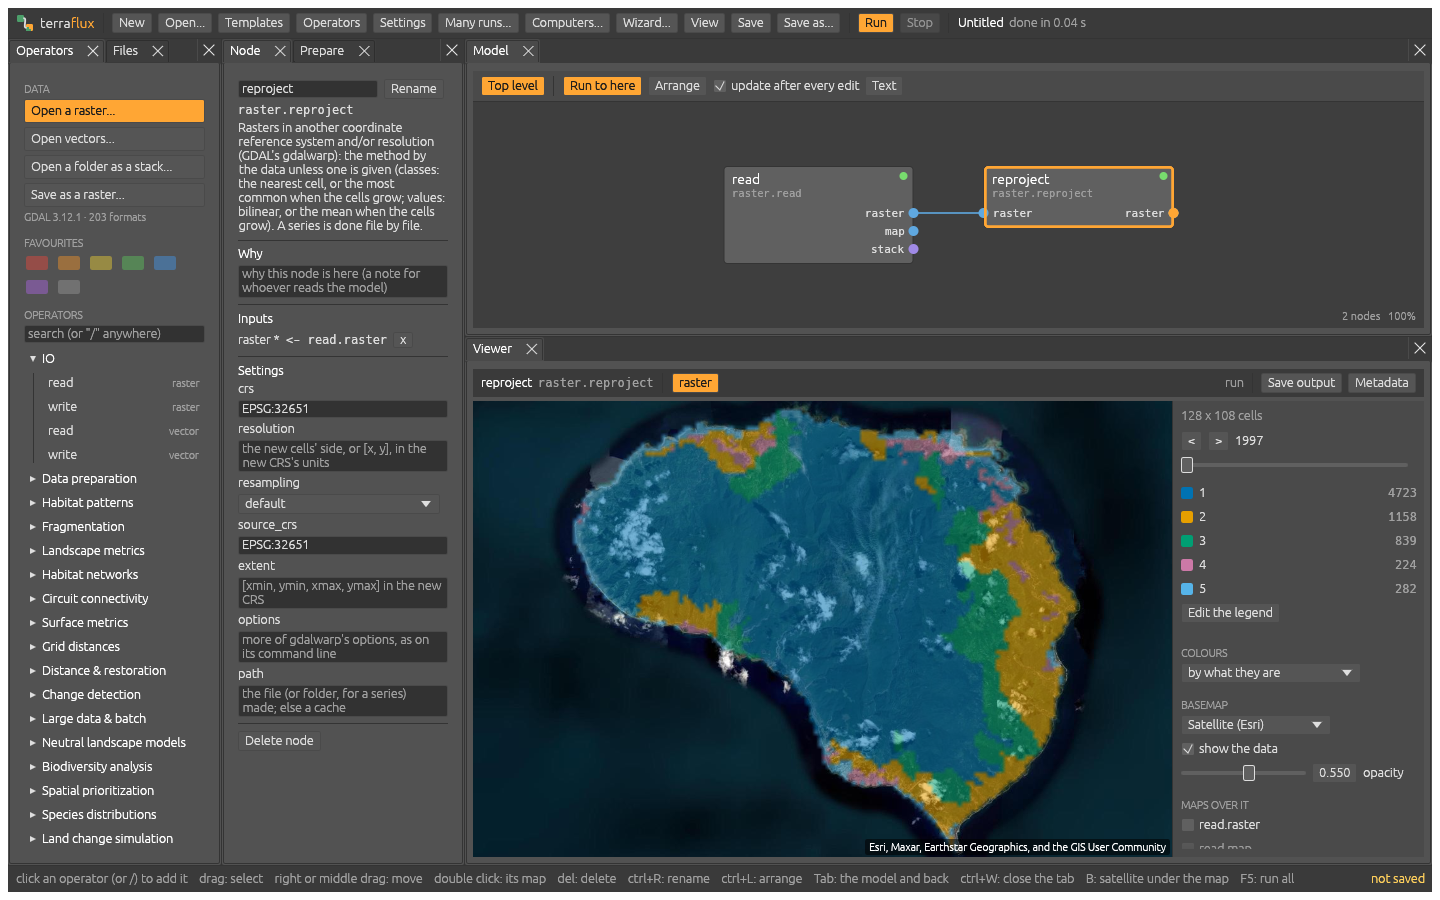
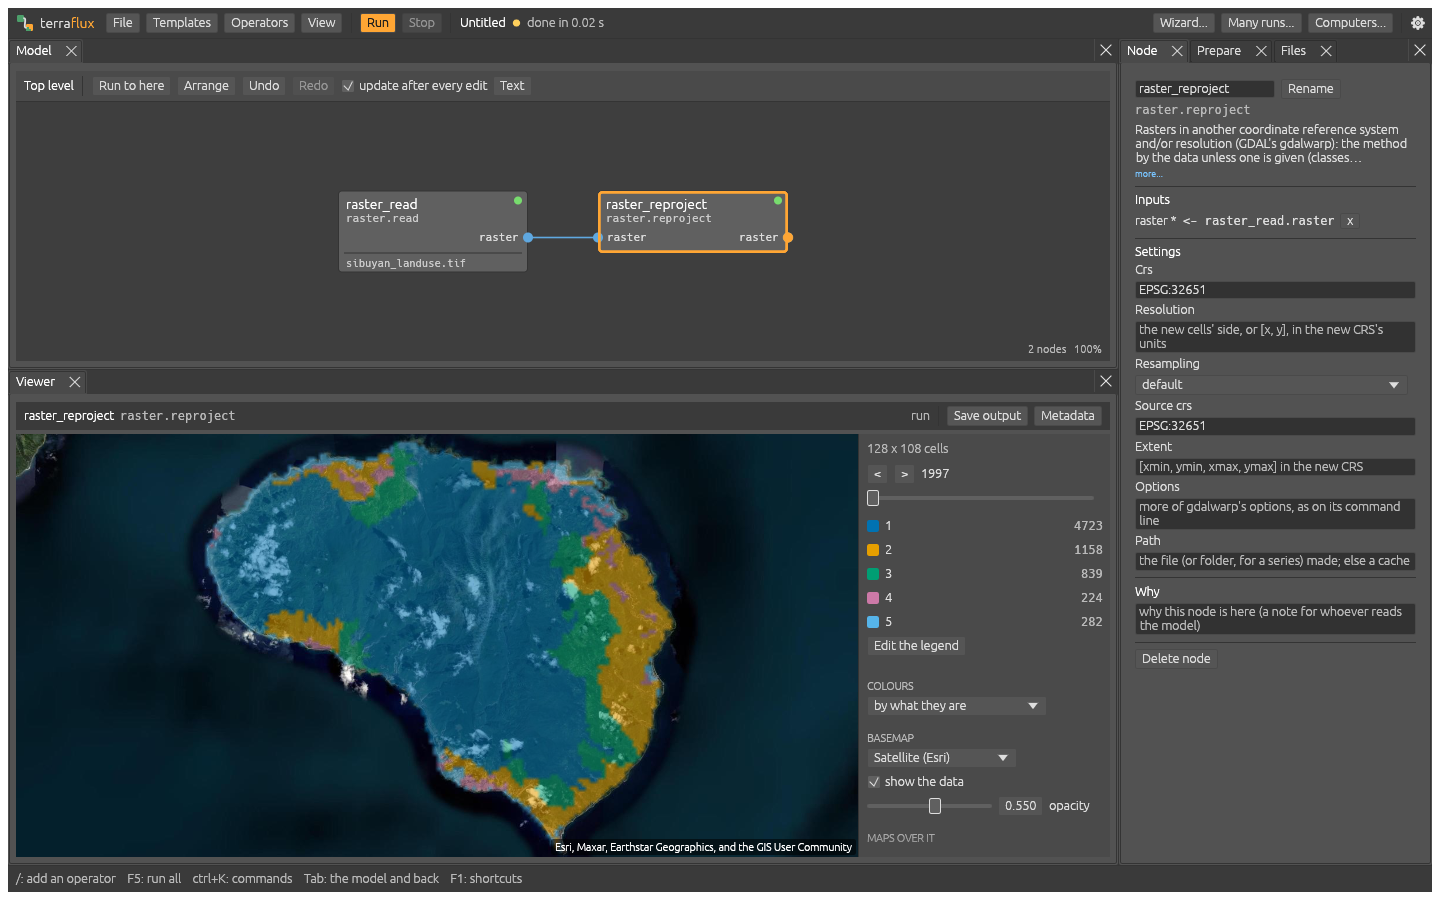
docs: the README's pictures of the application drawn again, in its new look (the bar at the top, the inspector at the right, the optional inputs folded)

diff --git a/crates/app/tests/readme_images.rs b/crates/app/tests/readme_images.rs
@@ -70,13 +70,13 @@ fn save(h: &mut Harness<TerrafluxApp>, name: &str) {
     img.save(images().join(name)).unwrap();
 }
 
-/// The panes for a picture: the operators and the node at the left, the model over `below` (the first in front).
+/// The panes for a picture, as the application first has them: the model over `below` (the first in front), the
+/// node in the inspector at the right (the operators in their drawer).
 fn layout(below: Vec<Pane>) -> DockState<Pane> {
     let mut d = DockState::new(vec![Pane::Model]);
     let s = d.main_surface_mut();
-    let [model, _] = s.split_left(NodeIndex::root(), 0.15, vec![Pane::Operators, Pane::Files]);
-    let [model, _] = s.split_left(model, 0.2, vec![Pane::Node, Pane::Prepare]);
-    s.split_below(model, 0.36, below);
+    let [model, _] = s.split_right(NodeIndex::root(), 0.78, vec![Pane::Node, Pane::Prepare, Pane::Files]);
+    s.split_below(model, 0.4, below);
     d
 }
 
